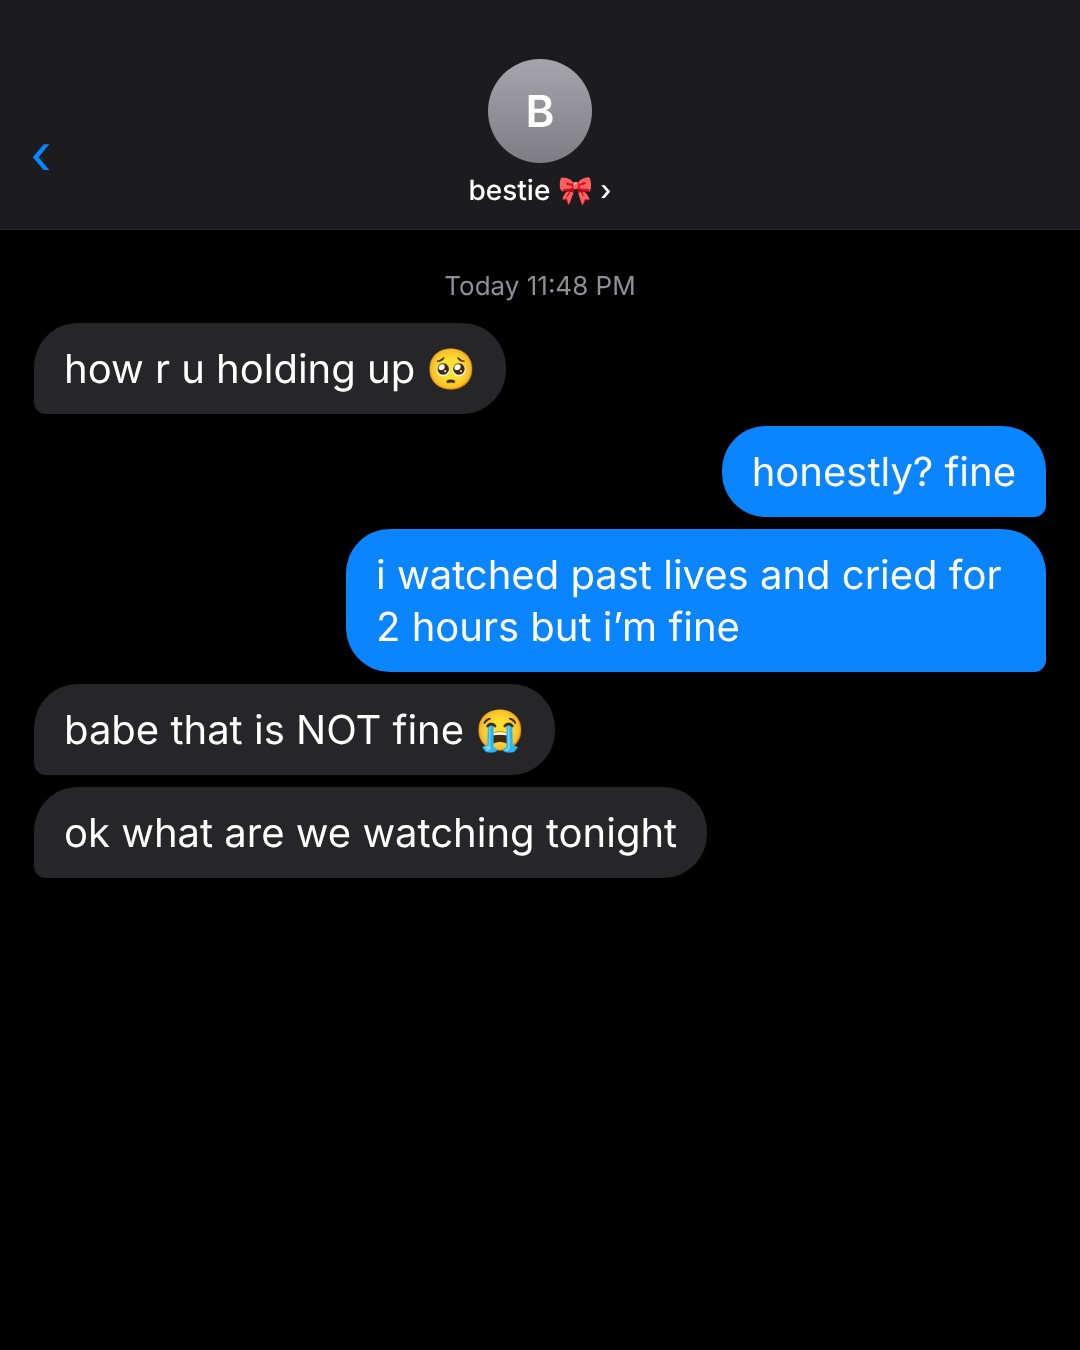
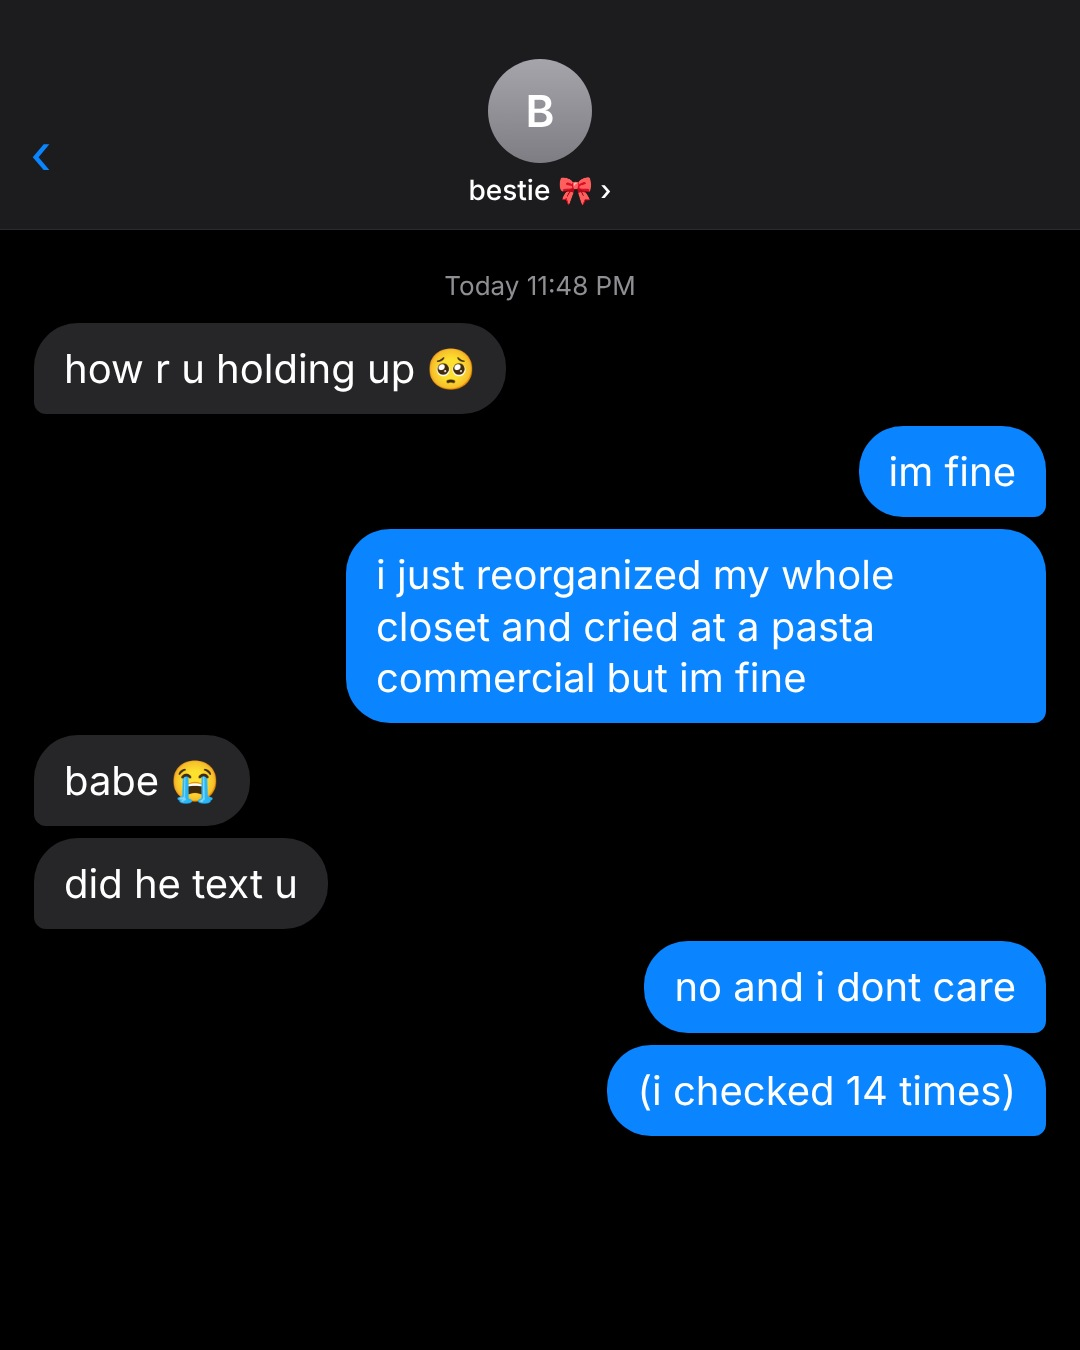
Vivian texts: natural chat rule, screenshot-only app moment
Claude-Session: https://claude.ai/code/session_01LBVF84zCTsqBHASfitCKw2

Changed region(s): [[0.0306, 0.3111, 0.9778, 0.7156], [0.55, 0.6844, 0.9778, 0.84]]

diff --git a/tools/slideshow/vivian/README.md b/tools/slideshow/vivian/README.md
@@ -41,7 +41,11 @@ A. POINTING AT A POSTER (approved "good"; ref slides/vivian-genz-pointing/): cov
    Render: node render_point.js DIR (point.json).
 B. TEXT CONVERSATION (ref slides/vivian-genz-texts/): B&W moody close-up cover ("texting my bestie the night after the
    breakup") + 2–3 iMessage dark-mode chat slides with her bestie / situationship / mom / sister — funny, real, Gen Z
-   spelling (lowercase, "rn", "lmaooo", emojis), and Cinema comes up naturally ("i literally just typed that into cinema").
+   spelling (lowercase, "rn", emojis). The chat must sound EXACTLY like real friends texting — plain, normal
+   lines ("wanna do a movie night?", "u pick"). NEVER name the app, never write a line just to set up the app
+   (user: "sounds like you promoting it", "no one says that"). The ONLY app moment is a screenshot of Cinema's results
+   she sends as a photo in the chat (cropped top of screen.png, ~320px wide). No separate app slide for this format.
+   Keep every bubble inside the slide (nothing cut off at the bottom).
    Render: node render_texts.js DIR (texts.json).
 C. MOODY FILM LIST (approved "amazing"; ref slides/vivian-healing-sample/) — see the section above.
 D. Other Gen Z formats you can invent at the same quality: photo dump ("things that got me through october"), "pov"
